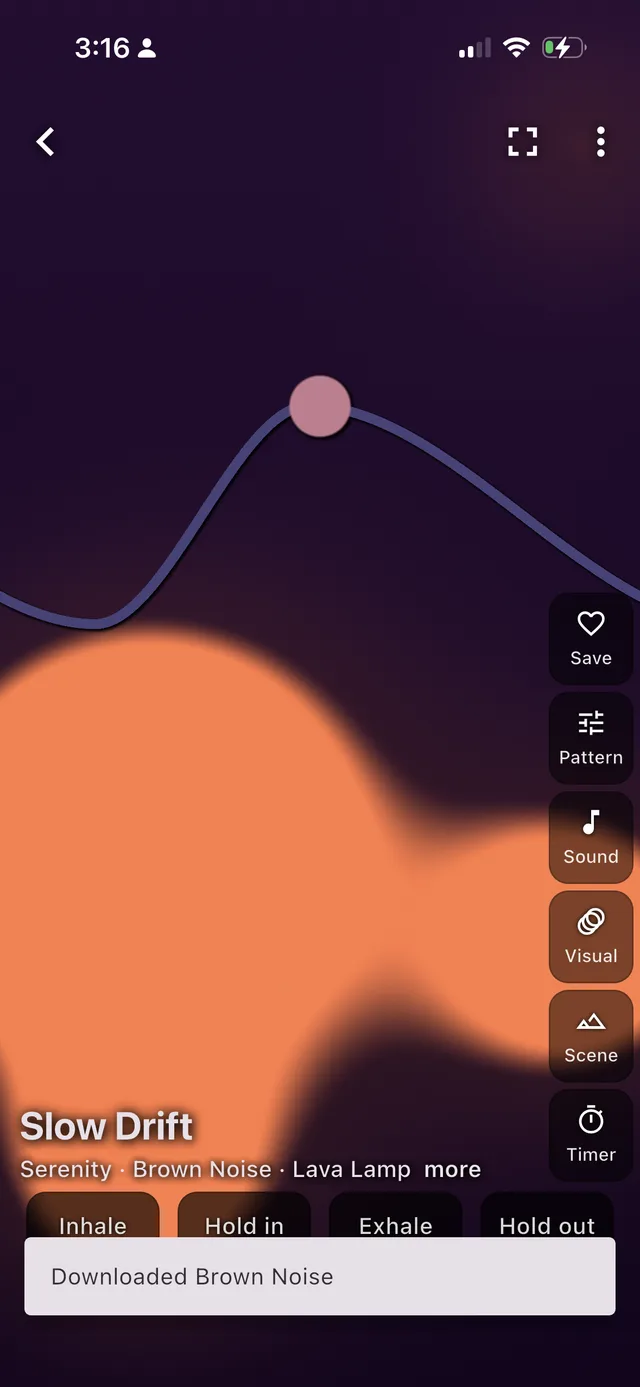
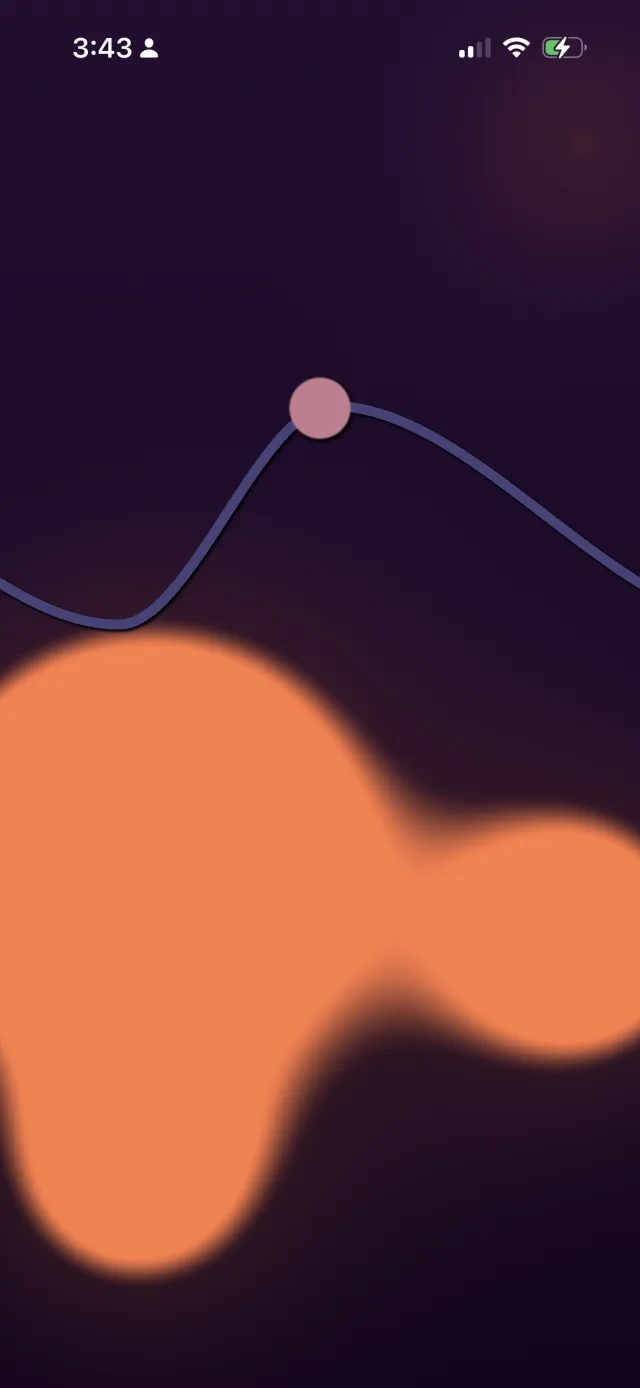
Update carousel: cleaner lava lamp slide, add sunny Maui beach slide
Replace slide 5 (had a download toast) with a clean full-screen lava
lamp capture, and add a seventh slide: 4-7-8 Breath over Calm Maui
Beach.

diff --git a/index.html b/index.html
@@ -594,8 +594,9 @@
                                     <div class="carousel-slide"><img src="/img/carousel-2.webp" alt="Aurora Lullaby session with pulsing rings over the northern lights" loading="lazy" /></div>
                                     <div class="carousel-slide"><img src="/img/carousel-3.webp" alt="Box breathing square animation over Lake Tahoe" loading="lazy" /></div>
                                     <div class="carousel-slide"><img src="/img/carousel-4.webp" alt="A calming circle bloom animation during an exhale" loading="lazy" /></div>
-                                    <div class="carousel-slide"><img src="/img/carousel-5.webp" alt="Slow Drift session with a flowing curve over a lava lamp scene" loading="lazy" /></div>
+                                    <div class="carousel-slide"><img src="/img/carousel-5.webp" alt="A flowing breathing curve over a warm lava lamp scene" loading="lazy" /></div>
                                     <div class="carousel-slide"><img src="/img/carousel-6.webp" alt="Octagon breathing animation under a starry night sky" loading="lazy" /></div>
+                                    <div class="carousel-slide"><img src="/img/carousel-7.webp" alt="A 4-7-8 breathing session over a sunny Maui beach" loading="lazy" /></div>
                                 </div>
                             </div>
                             <button class="carousel-btn prev" type="button" aria-label="Previous screenshot">&#8249;</button>